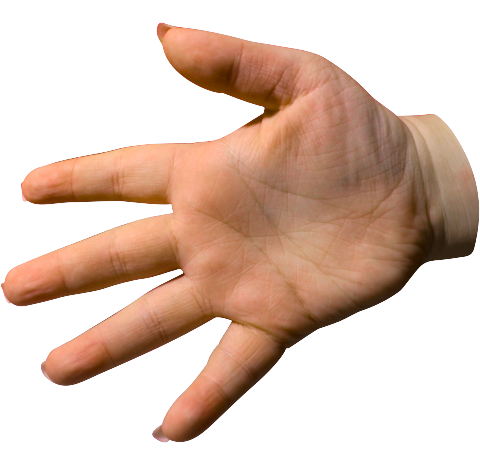
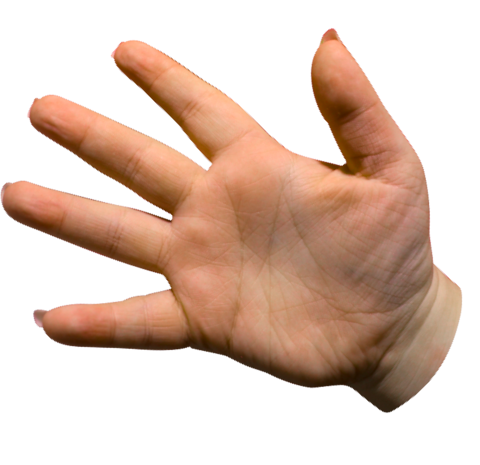
Update
Image recolor + animation changes + carousel links. + multiple demos

diff --git a/styles.css b/styles.css
@@ -161,7 +161,7 @@ a, a:link, a:visited, a:hover, a:active {
     font-size: 22px;
     color: #2D151B;
     padding:25px;
-    padding-top: 0px;
+
     padding-left: 50px;
     z-index: 3;
     justify-self: center;
@@ -292,7 +292,7 @@ body {
 #flower1{
     position: absolute;
     left: 940px;
-    top: 250px;
+    top: 350px;
     z-index: 0;
 
 }
@@ -330,6 +330,7 @@ audio{
     position: relative;
     z-index: 1000000000000000000000000000000000000;
     bottom: 50px;
+
 }
 #logo {
     z-index: 10000000000;
@@ -375,7 +376,7 @@ audio{
 .hcg-slider {
     width: auto;
     height: auto;
-    text-align: center;
+    text-align: left;
     font-family: Arial, Helvetica, sans-serif;
 }
 .hcg-slide-container {
@@ -385,6 +386,8 @@ audio{
     display: inline-block;
     position: relative;
     overflow: hidden;
+    left: -250px;
+    top: 100px;
 }
 .hcg-slider-track {
     height: 100%;
@@ -451,15 +454,15 @@ display: inline-block;
     margin-top: 10px;
     text-align: center;
 }
-.hcg-slide-dot {
-    cursor: pointer;
-    height: 13px;
-    width: 13px;
-    margin: 0 2px;
-    background-color: #bbb;
-    border-radius: 50%;
-    display: inline-block;
-}
+            //.hcg-slide-dot {
+                cursor: pointer;
+                height: 13px;
+                width: 13px;
+                margin: 0 2px;
+                background-color: #bbb;
+                border-radius: 50%;
+                display: inline-block;
+            }
 .hcg-slide-dot.dot-active {
     background-color: #717171;
 }
@@ -586,20 +589,22 @@ button:focus {
  position: relative;
 }
 .target1 {
+        position: absolute;
+    left: 100px;
+    top: 470px;
+    width: 400px;
+
+}
+.target2 {
     position: absolute;
     left: 0px;
     top: 60px;
     width: 400px;
 }
-.target2 {
-    position: absolute;
-    left: 100px;
-    top: 470px;
-    width: 400px;
-}
 
 .imageanim:hover .target1 {
   content: url('./images/left2.png');
+    transform: rotate(-40deg);
   left: -350px;
 }
 
@@ -611,4 +616,25 @@ button:focus {
 .target1,
 .target2 {
   transition: left 0.5s ease, transform 0.5s ease;
+}
+
+
+#demo{
+    position: relative;
+    top: -60px;
+}
+
+#slideshowtext {
+        width: 58%;
+    justify-self: right;
+    padding: 35px;
+    background-color: #ffffffaf;
+    font-family: 'Comfortaa';
+    font-size: 22px;
+    color: #2D151B;
+    padding:25px;
+
+    z-index: 311111111111;
+    position: relative;
+    top: 10px;
 }

diff --git a/index.html b/index.html
@@ -31,33 +31,39 @@
   <img src="./images/left1.png" class="target1">   
   <img src="./images/right1.png" class="target2">
 </div>
+
 </div>
 
-
-<div class="audiocont" style="padding-bottom: 700px;" >
+<div class="content" style="padding-top: 0;">
+    <h1 class="sectionHeading" id="homeStudio" >Demos</h1>
+</div>
+<div class="audiocont" style="padding-bottom: 400px; padding-top: 0px; " >
 
 
     <img id="flower1" src="./images/flower1.png" width="200px">
     <img id="flower2" src="./images/flower2.png" width="150px">
     <img id="flower3" src="./images/flower2.png" width="250px">
-
+    <div
     
-        <div class="bodyText2" style="gap: 150px; padding-top: 200px;" >
+        <div class="bodyText2" style="gap: 350px; padding-top: 100px;" >
 
             <div>
-                
+                        <h1 id="demo">Animation Demo</h1>
                     <audio controls src="./audio/Alex Doftoreanu Animation Demo FINAL.mp3" ></audio>
             </div>
+
             <div>
+                            <h1 id="demo">Commercial Demo</h1>
                     <audio controls src="./audio/Alex Doftoreanu Animation Demo FINAL.mp3" ></audio>
             </div>
 </div>
 
 </div>
-<div class="content" style="padding-bottom: 200px;">
+
+<div class="content" style="padding-bottom: 100px;">
     <img id="star1" src="./images/star1.png" width="150px">
     <img id="star2" src="./images/star2.png" width="250px">
-    <h1 class="sectionHeading" id="homeStudio">Home Studio</h1>
+
 
 
     <div class="bodyText">
@@ -76,14 +82,18 @@
         </div>
 </div>
 <div class="content">
+            <p id="slideshowtext">Alex Doftoreanu is a recent Full Time Diploma program graduate at On The Mic Training who goes over the top in their voice work (unless they are asked to tone it down, of course). Alex loves expressing themselves through their voice, whether it be developing their characters for animation and video games, finding the best way to show off products during commercials, or hooking people in with their voice in narration. They are excited to dive into this industry with an open mind and get their voice out there!</p>
+
+</div>
+<div class="content">
 
 </div>
 <div> 
     <div class="content">
 <h1 class="sectionHeading" id="contactForm">Work with me!</h1>
 </div>   
-
-<div class="content2">
+<! contact form !>
+<div class="content2"> 
     
 
         <p class="bodyText2">

diff --git a/carousel.js b/carousel.js
@@ -1,8 +1,8 @@
 const imagesList = [
-    {"src":"images/1.jpg","link":"","alt":"","name":"image 1"},
-    {"src":"images/2.jpg","link":"","alt":"","name":"image 1"},
-    {"src":"images/3.jpg","link":"","alt":"","name":"image 1"},
-    {"src":"images/8.png","link":"","alt":"","name":"image 1"},
+    {"src":"images/1.jpg","link":"https://google.com","alt":"","name":"image 1"},
+    {"src":"images/2.jpg","link":"https://youtube.com","alt":"","name":"image 1"},
+    {"src":"images/3.jpg","link":"https://bing.com","alt":"","name":"image 1"},
+    {"src":"images/8.png","link":"https://yahoo.com","alt":"","name":"image 1"},
 
 ];
 
